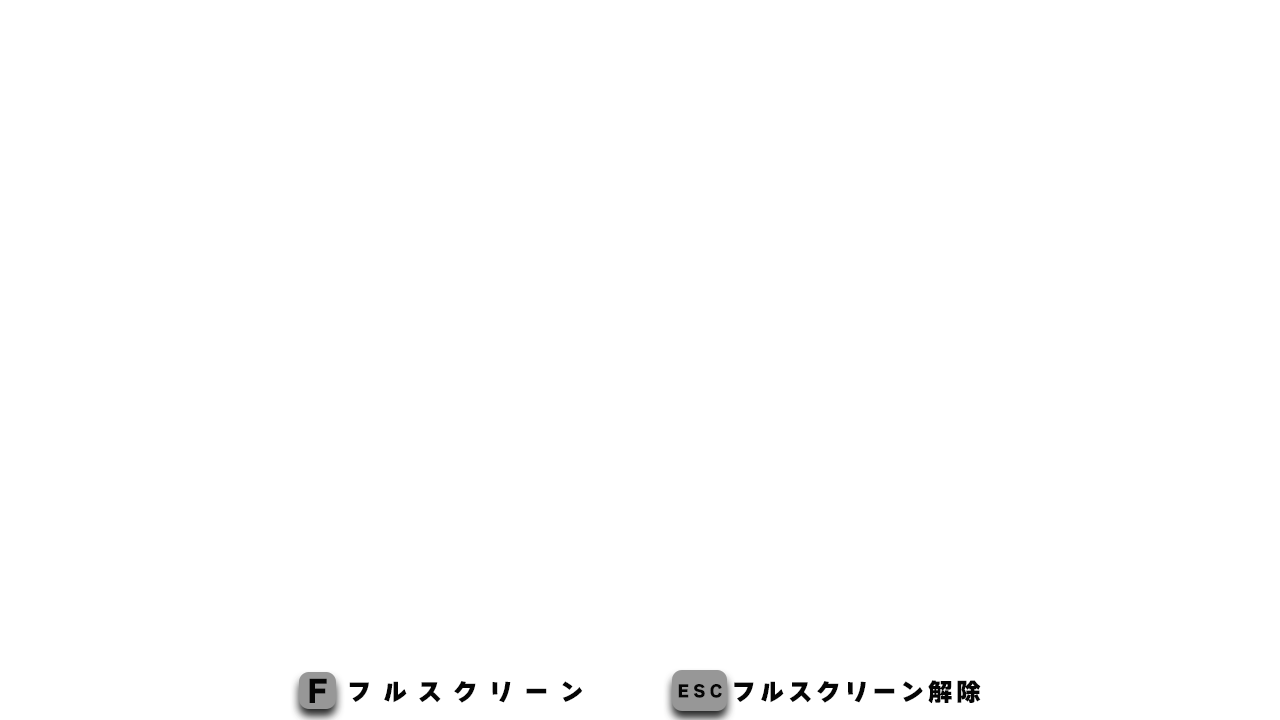
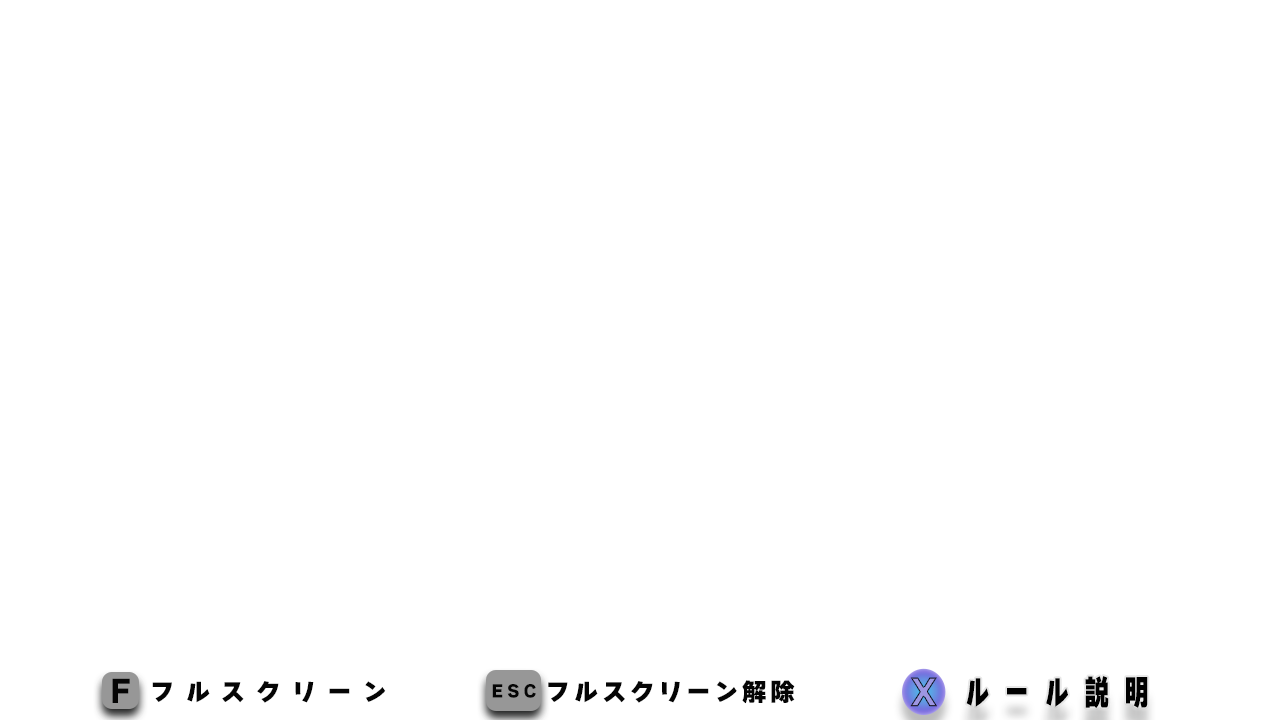
プレイヤー移動

Changed region(s): [[0.0625, 0.9167, 0.9062, 1.0]]

diff --git a/DirectXGame/Player.cpp b/DirectXGame/Player.cpp
@@ -2,8 +2,8 @@
 #include "MT.h"
 #include <ImGuiManager.h>
 
-void Player::Initialize(const std::vector<Model*>& models)
-{
+void Player::Initialize(const std::vector<Model*>& models) {
+	input_ = Input::GetInstance();
 	BaseCharacter::Initialize(models);
 
 	isPushX_ = false;
@@ -154,6 +154,7 @@ void Player::Update() {
 		switch (motion_) {
 		case Motion::kRun:
 		default:
+		   
 		    if (inHouseControllerFlag == true) {
 
 			    MotionRunUpdate();
@@ -178,7 +179,7 @@ void Player::Update() {
 		XINPUT_STATE joyState;
 		if (Input::GetInstance()->GetJoystickState(0, joyState)) {
 			// 拾うモーション
-			if (joyState.Gamepad.wButtons == XINPUT_GAMEPAD_X && useAxe_ == false) {
+		    if (joyState.Gamepad.wButtons == XINPUT_GAMEPAD_X && useAxe_ == false) {
 				motionRequest_ = Motion::kPick;
 				isPushX_ = true;
 			} else {
@@ -210,17 +211,16 @@ void Player::Update() {
 }
 
 void Player::MotionRunUpdate() {
+	worldTransformBody_.parent_ = &worldTransform_;
+	worldTransformHead_.parent_ = &worldTransform_;
+	worldTransformL_arm.parent_ = &worldTransform_;
+	worldTransformR_arm.parent_ = &worldTransform_;
+	worldTransformL_leg.parent_ = &worldTransform_;
+	worldTransformR_leg.parent_ = &worldTransform_;
+	worldTransformAxe_.parent_ = &worldTransform_;
 	// ゲームパッドの状態を得る変数
 	XINPUT_STATE joyState;
-
 	if (Input::GetInstance()->GetJoystickState(0, joyState)) {
-		worldTransformBody_.parent_ = &worldTransform_;
-		worldTransformHead_.parent_ = &worldTransform_;
-		worldTransformL_arm.parent_ = &worldTransform_;
-		worldTransformR_arm.parent_ = &worldTransform_;
-		worldTransformL_leg.parent_ = &worldTransform_;
-		worldTransformR_leg.parent_ = &worldTransform_;
-		worldTransformAxe_.parent_ = &worldTransform_;
 		// 移動量
 		if (isController == true) {
 			    Vector3 move = {
@@ -269,7 +269,66 @@ void Player::MotionRunUpdate() {
 			    }
 		}
 	}
-};
+}
+
+void Player::KeyRun() {
+
+	 Vector3 move = {0,0,0};
+
+	move = TransformNormal(move, MakeRotateYmatrix(viewProjection_->rotation_.y));
+
+	if (input_->PushKey(DIK_W)) {
+		move.z = 1.0f;
+	}
+	if (input_->PushKey(DIK_A)) {
+		move.x = -1.0f;
+	}
+	if (input_->PushKey(DIK_S)) {
+		move.z = -1.0f;
+	}
+	if (input_->PushKey(DIK_D)) {
+		move.x = 1.0f;
+	}
+
+	// 移動量に速さを反映
+	move = Multiply(Speed, Normalize(move));
+
+	  // 移動
+	worldTransform_.translation_ = Add(worldTransform_.translation_, move);
+
+	 if (Length(move) != 0) {
+		worldTransform_.rotation_.y = std::atan2(move.x, move.z);
+		// 左足
+		if (isLeftLeg_ == false) {
+			worldTransformL_leg.rotation_.x += 0.1f;
+			if (worldTransformL_leg.rotation_.x >= 1.0f) {
+				isLeftLeg_ = true;
+			}
+		} else if (isLeftLeg_ == true) {
+			worldTransformL_leg.rotation_.x -= 0.1f;
+			if (worldTransformL_leg.rotation_.x <= -1.0f) {
+				isLeftLeg_ = false;
+			}
+		}
+		// 右足
+		if (isRightLeg_ == false) {
+			worldTransformR_leg.rotation_.x -= 0.1f;
+			if (worldTransformR_leg.rotation_.x <= -1.0f) {
+				isRightLeg_ = true;
+			}
+		} else if (isRightLeg_ == true) {
+			worldTransformR_leg.rotation_.x += 0.1f;
+			if (worldTransformR_leg.rotation_.x >= 1.0f) {
+				isRightLeg_ = false;
+			}
+		}
+	} else {
+		worldTransformL_leg.rotation_.x = 0.0f;
+		worldTransformR_leg.rotation_.x = 0.0f;
+		isLeftLeg_ = false;
+		isRightLeg_ = false;
+	}
+}
 
 void Player::OnCollision() {
 	if (isInvestigatebutton_==false) {
@@ -309,20 +368,6 @@ void Player::ActionButtonUpdate() {
 }
 
 void Player::Debug() {
-	//// ゲームパッドの状態を得る変数
-	//XINPUT_STATE joyState;
-	////斧
-	//if (Input::GetInstance()->GetJoystickState(0, joyState)) {
-	//	if (isController == true) {
-	//		    if (joyState.Gamepad.wButtons == XINPUT_GAMEPAD_DPAD_UP) {
-	//			    useAxe_ = true;
-	//		    }
-	//		    if (joyState.Gamepad.wButtons == XINPUT_GAMEPAD_DPAD_DOWN) {
-	//			    useAxe_ = false;
-	//		    }
-	//	}
-	//}
-
 #ifdef _DEBUG
 
 	// デバック

diff --git a/DirectXGame/TitleScene.cpp b/DirectXGame/TitleScene.cpp
@@ -27,6 +27,11 @@ void TitleScene::Initialize() {
 	subTitleHandle2_ = TextureManager::Load("subTitle2.png");
 	textureSubTitle2_ = Sprite::Create(subTitleHandle2_, {0.0f, 0.0f}, subTitleColor2_, {0.0f, 0.0f});
 
+	// ルール説明
+	luleHandle_ = TextureManager::Load("Lule.png");
+	textureLule_ =
+	    Sprite::Create(luleHandle_, {0.0f, 0.0f}, {1.0f, 1.0f, 1.0f, 1.0f}, {0.0f, 0.0f});
+
 	isSceneEnd_ = false;
 
 	/*score_ = std::make_unique<Score>();
@@ -54,36 +59,49 @@ void TitleScene::Initialize() {
 	titlebgmHandle_ = audio_->LoadWave("BGM/Sound_Wave.mp3");
 	playTitleBgm_ = audio_->PlayWave(titlebgmHandle_, true, 0.1f);
 	
+	isLule_ = false;
+	// ボタンクールダウン
+	ButtonCoolDown_=60;
 }
 
 void TitleScene::Update() {
 	// ゲームパッドの状態を得る変数(XINPUT)
 	XINPUT_STATE joyState;
-
-
-
 	// ゲームパッド状態取得
 	if (Input::GetInstance()->GetJoystickState(0, joyState)) {
+		ButtonCoolDown_--;
+		if (isLule_ == false) {
+			if (subTitleColor2_.w >= 1.0f) {
+				if (joyState.Gamepad.wButtons & XINPUT_GAMEPAD_A && fadeTimerFlag_ == false) {
+					if (ButtonCoolDown_ <= 0) {
+						fadeTimerFlag_ = true;
+						fade_->FadeOutStart();
+						ButtonCoolDown_ = 60;
+					}
+				}
 
-		if (subTitleColor2_.w >= 1.0f) {
-			if (joyState.Gamepad.wButtons & XINPUT_GAMEPAD_A && fadeTimerFlag_ == false) {
-				fadeTimerFlag_ = true;
-				fade_->FadeOutStart();
-			}
+				if (fadeTimerFlag_ == true) {
+					fadeTimer_--;
+				}
 
-			if (fadeTimerFlag_ == true) {
-				fadeTimer_--;
-			}
+				if (fadeTimer_ <= 0) {
 
-			if (fadeTimer_ <= 0) {
-				
-				isSceneEnd_ = true;
+					isSceneEnd_ = true;
+				}
 			}
 		}
 	}
 
 	if (input_->TriggerKey(DIK_SPACE)) {
 		isSceneEnd_ = true;
+	}
+
+
+	if (joyState.Gamepad.wButtons & XINPUT_GAMEPAD_X && fadeTimerFlag_ == false) {
+		isLule_ = true;
+	}
+	if (joyState.Gamepad.wButtons & XINPUT_GAMEPAD_B && isLule_ == true && fadeTimerFlag_==false) {
+		isLule_ = false;
 	}
 
 
@@ -169,6 +187,9 @@ void TitleScene::Draw() {
 
 	textureFullScreen_->Draw();
 	
+	if (isLule_==true) {
+		textureLule_->Draw();
+	}
 
 	// フェードの描画
 	fade_->Draw();
@@ -186,6 +207,7 @@ void TitleScene::SceneReset() {
 	
 	fadeTimerFlag_ = false;
 	fadeTimer_ = kFadeTimer_;
+	ButtonCoolDown_ = 60;
 }
 
 void TitleScene::BGMReset() { 

diff --git a/DirectXGame/TitleScene.h b/DirectXGame/TitleScene.h
@@ -83,6 +83,10 @@ private: // メンバ変数
 	Sprite* textureSubTitle2_;
 	uint32_t subTitleHandle2_;
 
+	//ルール画像
+	Sprite* textureLule_;
+	uint32_t luleHandle_;
+
 	Vector4 subTitleColor_ = {1.0f, 1.0f, 1.0f, 0.0f};
 	Vector4 subTitleColor1_ = {1.0f, 1.0f, 1.0f, 0.0f};
 	Vector4 subTitleColor2_ = {1.0f, 1.0f, 1.0f, 0.0f};
@@ -102,4 +106,11 @@ private: // メンバ変数
 	uint32_t titlebgmHandle_;
 	uint32_t playTitleBgm_;
 	bool isTitleBgm_;
+
+	//ルール説明
+	bool isLule_;
+	
+	// ボタンクールダウン
+	int ButtonCoolDown_;
+
 };

diff --git a/DirectXGame/scene/GameScene.cpp b/DirectXGame/scene/GameScene.cpp
@@ -370,7 +370,7 @@ void GameScene::Update() {
 		break;
 	}
 	
-	
+	player_->KeyRun();
 
 	//player_->SetIsController(false);
 	debugCamera_->Update();
@@ -415,7 +415,7 @@ void GameScene::Update() {
 	
 
 	//時間更新
-	//time--;
+	time--;
 	timer_->Update(time);
 
 	if (time <= 0) {

diff --git a/DirectXGame/Player.h b/DirectXGame/Player.h
@@ -76,6 +76,9 @@ public:
 		kAxe,
 	};
 
+	///
+	void KeyRun();
+
 	/// <summary>
 	/// Getter&Setter
 	/// </summary>
